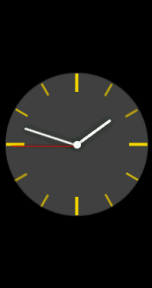
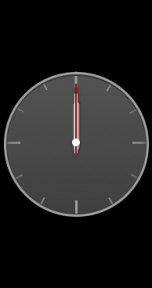
Add style file and restructure assets

Changed region(s): [[0.0263, 0.25, 0.8684, 0.7812], [0.8158, 0.3438, 1.0, 0.6562], [0.8158, 0.6562, 0.8684, 0.6875]]

diff --git a/watchface/band7/index.js b/watchface/band7/index.js
@@ -1,73 +1,30 @@
 const logger = Logger.getLogger('photo-watchface')
 
-const img = (function(type){
-  return (path) => type + '/' + path
-})('')
+import { style } from './style.js';
+import { constants } from './constants.js';
 
 WatchFace({
-  init_view() {
-    let pointerAlwaysOnObj = {
-      hour_centerX: px(97),
-      hour_centerY: px(184),
-      hour_posX: px(12),
-      hour_posY: px(65),
-      hour_path: img('pointer/hour.png'),
+  init_view() {    
+    // TODO Can this be incorporated into the style config file
+    hmUI.createWidget(hmUI.widget.FILL_RECT, {
+      x: px(0),
+      y: px(0),
+      w: px(194),
+      h: px(368),
+      color: 0x000000,
+      show_level: hmUI.show_level.ONAL_AOD,
+    });
 
-      minute_centerX: px(97),
-      minute_centerY: px(184),
-      minute_posX: px(12),
-      minute_posY: px(82),
-      minute_path: img('pointer/minute.png'),
-
-      minute_cover_path: img('pointer/center.png'),
-      minute_cover_x: px(83),
-      minute_cover_y: px(169)
-    }
-
-    let pointerNormalObj = {
-      hour_centerX: px(97),
-      hour_centerY: px(184),
-      hour_posX: px(12),
-      hour_posY: px(65),
-      hour_path: img('pointer/hour.png'),
-
-      minute_centerX: px(97),
-      minute_centerY: px(184),
-      minute_posX: px(12),
-      minute_posY: px(82),
-      minute_path: img('pointer/minute.png'),
-
-      second_centerX: px(97),
-      second_centerY: px(184),
-      second_posX: px(12),
-      second_posY: px(96),
-      second_path: img('pointer/second.png'),
-
-      second_cover_path: img('pointer/center.png'),
-      second_cover_x: px(83),
-      second_cover_y: px(169)
-    }
-    
-    var screenType = hmSetting.getScreenType();
-    if (screenType == hmSetting.screen_type.AOD) {
-      img_bg = hmUI.createWidget(hmUI.widget.FILL_RECT, {
-        x: px(0),
-        y: px(0),
-        w: px(194),
-        h: px(368),
-        color: 0x000000,
-      });
-      let timePointerAlwaysOn = hmUI.createWidget(hmUI.widget.TIME_POINTER, pointerAlwaysOnObj);
-    } else {
-      img_bg = hmUI.createWidget(hmUI.widget.IMG, {
-        x: px(0),
-        y: px(0),
-        w: px(194),
-        h: px(368),
-        src: img('bg.png'),
-        show_level: hmUI.show_level.ONAL_NORML,
-      });
-      let timePointerNormal = hmUI.createWidget(hmUI.widget.TIME_POINTER, pointerNormalObj);
+    for ( const [id, widget] of Object.entries( style.widgets ) ) {
+      // TODO order of widget creation matters, fix it somehow
+      // Priority, layer sorting variable, but extra computation
+      if (id !== constants.ANALOG_AOD) {
+        hmUI.createWidget(hmUI.widget[widget.type], {
+          ...widget.config, show_level: hmUI.show_level.ONLY_NORMAL});
+      } else {
+        hmUI.createWidget(hmUI.widget[widget.type], {
+          ...widget.config, show_level: hmUI.show_level.ONAL_AOD});
+      }
     }
   },
 

diff --git a/watchface/band7/style.js b/watchface/band7/style.js
@@ -1,0 +1,42 @@
+export const style = {
+	"widgets":
+	{
+        "bg":
+		{
+			"type": "IMG",
+			"config":
+			{
+				"x": 0,
+				"y": 0,
+				"w": 194,
+				"h": 368,
+				"src": "images/bg.png"
+			}
+		},
+		"analogNormal":
+		{
+			"type": "TIME_POINTER",
+			"config":
+			{
+				"second_centerX": 97,
+				"minute_centerX": 97,
+				"hour_centerX": 97,
+				"second_centerY": 184,
+				"minute_centerY": 184,
+				"hour_centerY": 184,
+				"hour_posX": 7,
+				"hour_posY": 56,
+				"hour_path": "images/analog/hour.png",
+				"minute_posX": 5,
+				"minute_posY": 71,
+				"minute_path": "images/analog/minute.png",
+				"second_posX": 4,
+				"second_posY": 83,
+				"second_path": "images/analog/second.png",
+				"second_cover_x": 87,
+				"second_cover_y": 176,
+				"second_cover_path": "images/analog/center.png"
+			}
+		}
+	}
+}

diff --git a/watchface/band7/constants.js b/watchface/band7/constants.js
@@ -1,0 +1,4 @@
+export const constants = {
+    ANALOG_NORMAL: "analogNormal",
+    ANALOG_AOD: "analogAOD",
+}
